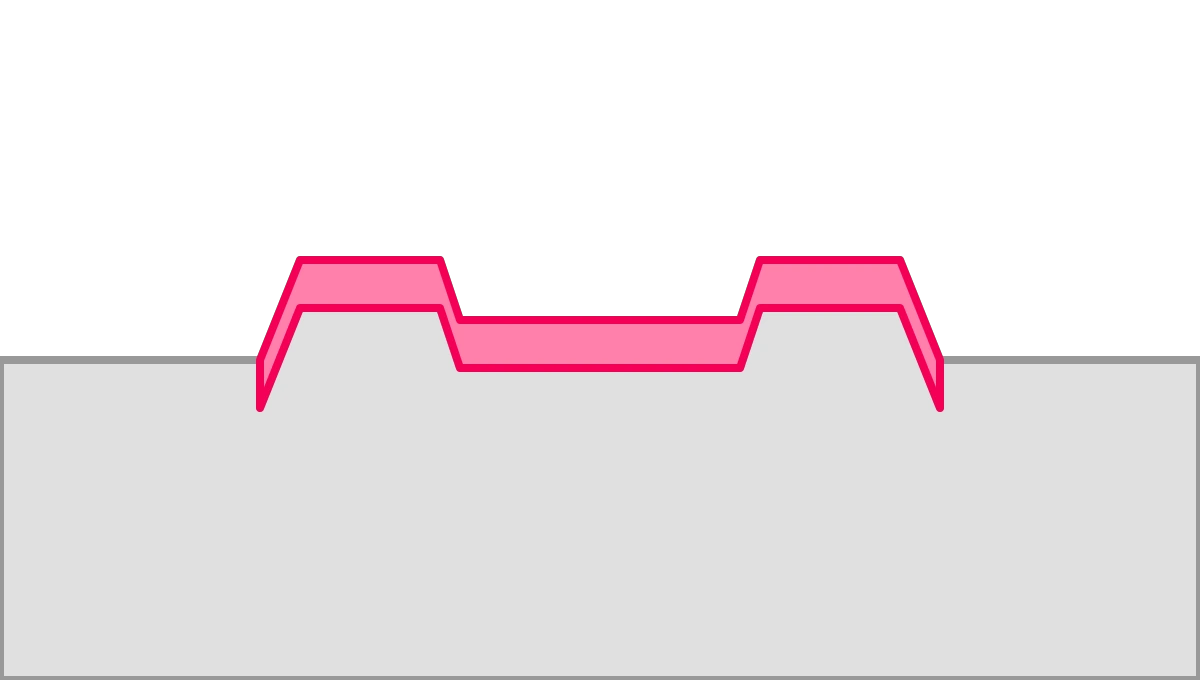
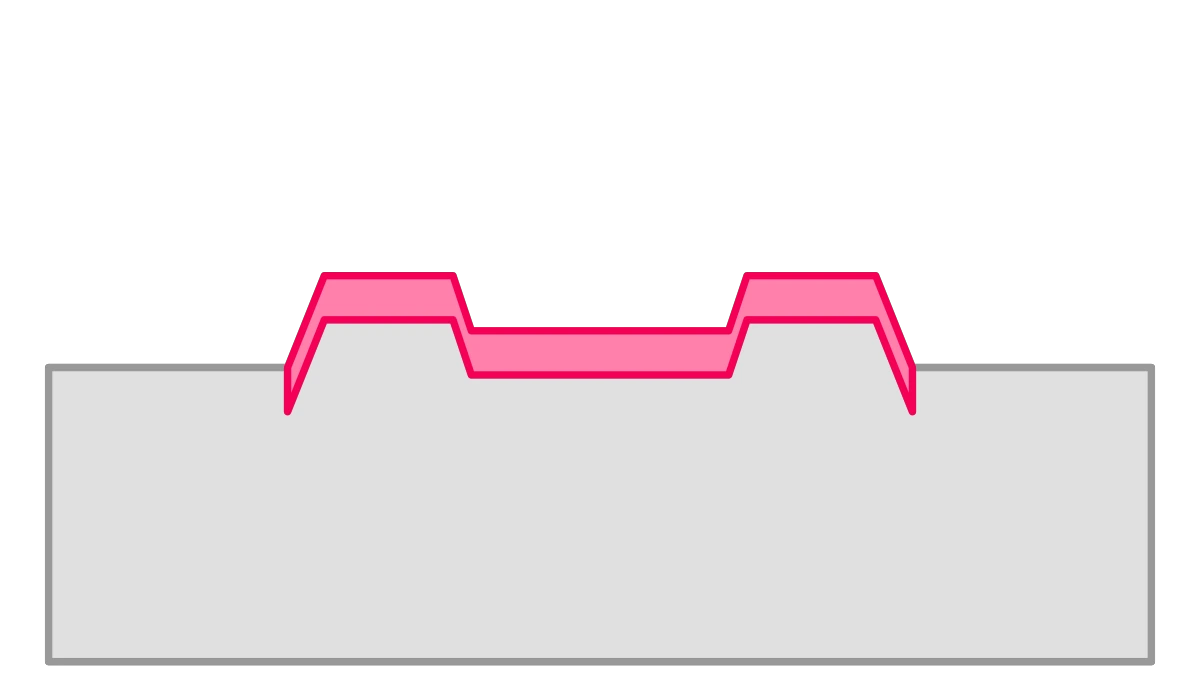
Replace Paris Type 0 schematics with revised plate
Use the updated contributor SVG: asymmetric 0-IIc+IIa, restored
IIa+IIc proportions, and tumor only on ulcer margins for 0-III
family. Widen the crop so 0-Ip is not clipped.

Changed region(s): [[0.0, 0.3706, 1.0, 1.0]]

diff --git a/scripts/verify-scores.ts b/scripts/verify-scores.ts
@@ -2596,7 +2596,7 @@ test('アプリバージョンは package.json と expo 設定で一致する', 
   const pkg = require('../package.json') as { version: string };
   const appConfig = require('../app.config.js') as { expo: { version: string } };
   assert.equal(appConfig.expo.version, pkg.version);
-  assert.equal(pkg.version, '1.0.33');
+  assert.equal(pkg.version, '1.0.34');
 });
 
 test('臓器ページのサブカテゴリ（フェーズ）にはアイコン画像がある', () => {

diff --git a/scripts/rasterize-paris-svg.py b/scripts/rasterize-paris-svg.py
@@ -3,8 +3,10 @@
 
 from __future__ import annotations
 
+import argparse
 import copy
 import re
+import shutil
 import subprocess
 import tempfile
 import xml.etree.ElementTree as ET
@@ -59,7 +61,7 @@ def render(group: ET.Element, defs: ET.Element, destination: Path) -> None:
     crop = ET.Element(
         f'{{{SVG_NS}}}svg',
         {
-            'viewBox': f'{x} {y + 10} 300 170',
+            'viewBox': f'{x} {y} 300 185',
             'width': str(WIDTH),
             'height': str(HEIGHT),
         },
@@ -92,6 +94,17 @@ def render(group: ET.Element, defs: ET.Element, destination: Path) -> None:
 
 
 def main() -> None:
+    parser = argparse.ArgumentParser()
+    parser.add_argument(
+        '--source',
+        type=Path,
+        help='初回のみ指定する提供SVG。検証後にpublic/figuresへ保存する。',
+    )
+    args = parser.parse_args()
+    if args.source:
+        ET.parse(args.source)
+        shutil.copyfile(args.source, SOURCE)
+
     ET.register_namespace('', SVG_NS)
     root = ET.parse(SOURCE).getroot()
     defs = root.find('svg:defs', NS)
